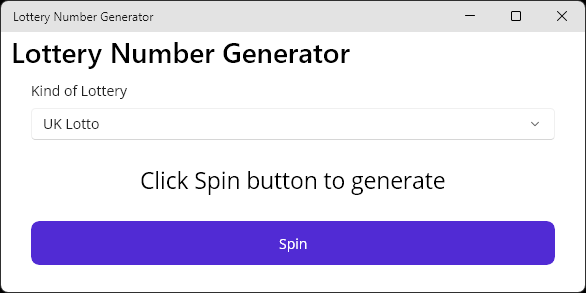
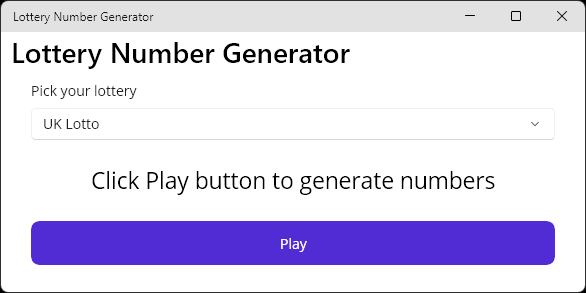
upd lottery image in README

Changed region(s): [[0.1536, 0.5836, 0.8601, 0.6758], [0.0614, 0.2765, 0.2457, 0.3379], [0.4608, 0.7986, 0.5222, 0.8601]]

diff --git a/Lottery/MainPage.xaml b/Lottery/MainPage.xaml
@@ -9,7 +9,7 @@
             Spacing="25">
             <Picker x:Name="LotteryPicker" Title="Pick your lottery" SelectedIndexChanged="LotteryPicker_SelectedIndexChanged" />
 
-            <Label x:Name="NumbersLabel" Text="Click Play button to generate numbers" HorizontalOptions="Center" FontSize="Medium"  />
+            <Label x:Name="NumbersLabel" Text="Click Play to Begin" HorizontalOptions="Center" FontSize="Medium"  />
 
             <Button x:Name="PlayButton" Text="Play" Clicked="PlayButton_Clicked"/>
         </VerticalStackLayout>
